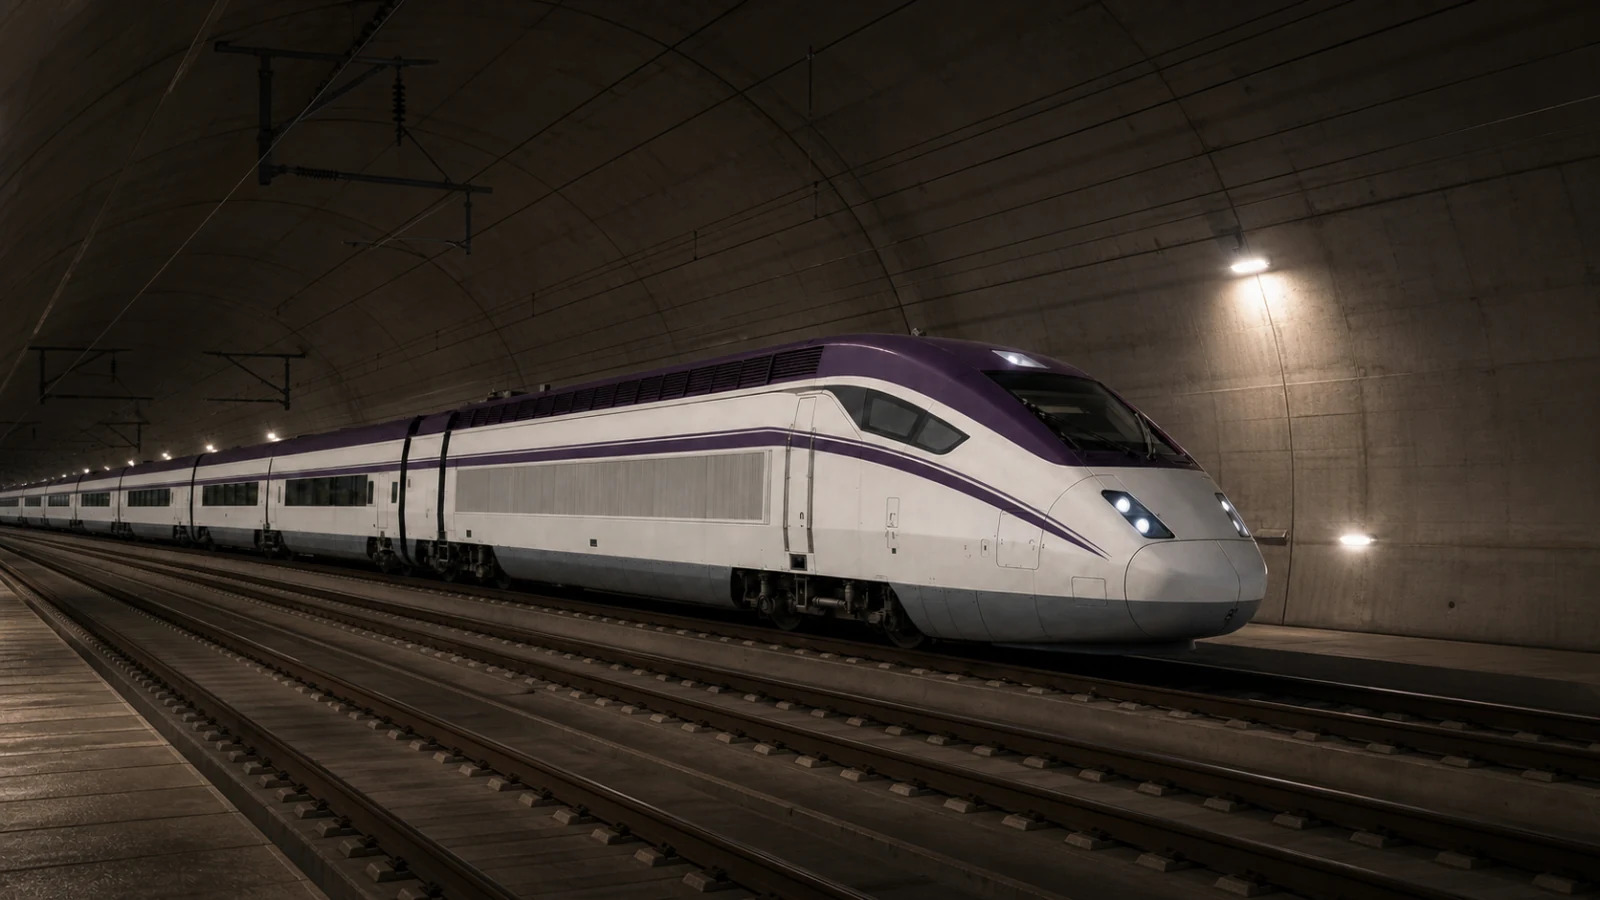
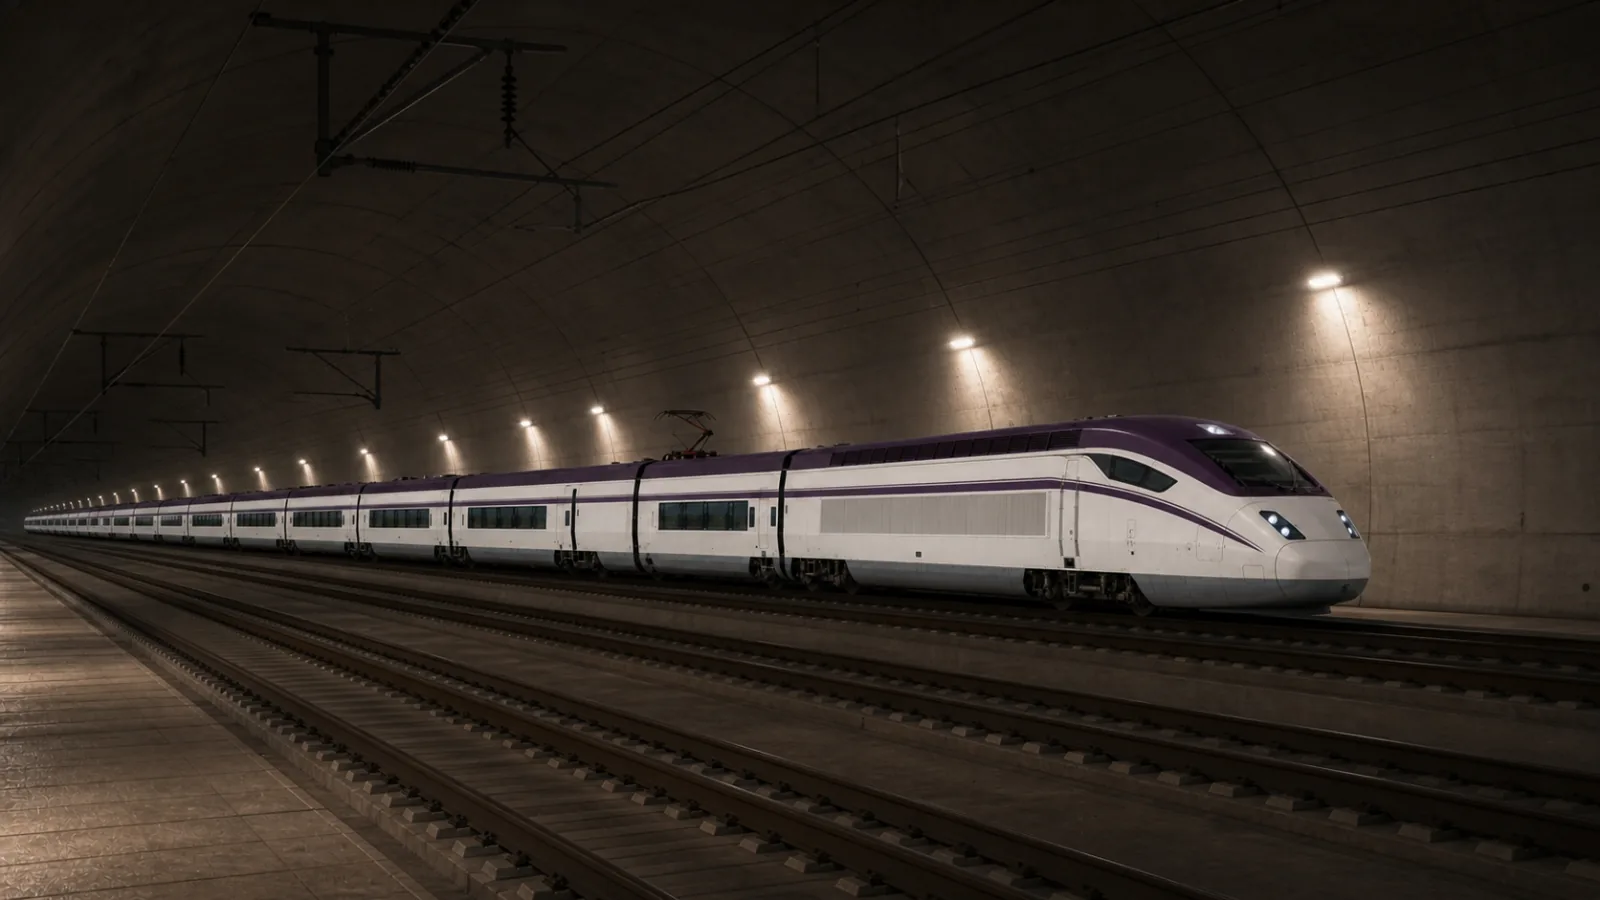
fix: meet SRT visual acceptance gate

diff --git a/styles.css b/styles.css
@@ -7801,17 +7801,17 @@ body[data-mode="ktx"] .stage-lights {
   opacity: 1;
 }
 
-/* 바깥 뷰는 승인안처럼 상단 65%를 월드, 하단 35%를 실제 운전 계기로 쓴다. */
+/* 바깥 뷰는 승인안처럼 상단 71%를 월드, 하단 29%를 실제 운전 계기로 쓴다. */
 .ktx-game[data-realistic="ready"][data-view="side"] .ktx-real-exterior-image {
   inset: 0 0 auto;
-  height: 65%;
+  height: 71%;
   object-position: center 58%;
 }
 
 .ktx-game[data-realistic="ready"][data-view="side"] .ktx-view-cab::before {
   position: absolute;
   inset: auto 0 0;
-  height: 35%;
+  height: 29%;
   z-index: 10;
   border-top: 3px solid rgba(187, 204, 220, .5);
   background:
@@ -7875,9 +7875,15 @@ body[data-mode="ktx"] .stage-lights {
 .ktx-game[data-realistic="ready"] .ktx-view-side .ktx-side-backdrop,
 .ktx-game[data-realistic="ready"] .ktx-view-side .ktx-side-far,
 .ktx-game[data-realistic="ready"] .ktx-view-side .ktx-side-mid,
+.ktx-game[data-realistic="ready"] .ktx-view-side .ktx-side-near,
 .ktx-game[data-realistic="ready"] .ktx-view-side .ktx-ground-rig,
 .ktx-game[data-realistic="ready"] .ktx-view-side .ktx-side-train {
   opacity: 0;
+}
+
+/* 실사 열차 위를 가로지르는 레거시 전경 모션은 장면 준비 즉시 제거한다. */
+.ktx-game[data-realistic="ready"] .ktx-view-side .ktx-side-near {
+  display: none;
 }
 
 /* 사진 속 장식 계기는 한 톤 눌러 두고, 그 위의 실제 수치·노치·문 상태만 읽힌다. */
@@ -7912,6 +7918,17 @@ body[data-mode="ktx"] .stage-lights {
   transform: scale(1.4);
   transform-origin: right bottom;
   filter: drop-shadow(0 8px 12px rgba(0, 0, 0, .44));
+}
+
+/* 운전실 사진의 기존 계기판을 살리고, 실제 조작 레버는 승인안처럼 왼쪽에 둔다. */
+.ktx-game[data-realistic="ready"][data-view="cab"] .ktx-lever {
+  right: auto;
+  left: 34px;
+  transform-origin: left bottom;
+}
+
+.ktx-game[data-realistic="ready"][data-view="cab"] .ktx-next-key {
+  left: 190px;
 }
 
 .ktx-game[data-realistic="ready"] .ktx-approach {
@@ -7966,7 +7983,7 @@ body[data-mode="ktx"] .stage-lights {
 }
 
 .ktx-game[data-realistic="ready"] .ktx-platform {
-  bottom: 35%;
+  bottom: 29%;
   height: 0;
   background: none;
 }
@@ -7974,11 +7991,11 @@ body[data-mode="ktx"] .stage-lights {
 .ktx-game[data-realistic="ready"] .ktx-stop-marker { top: -52px; }
 
 .ktx-game[data-realistic="ready"] .ktx-queue {
-  bottom: calc(35% + 2px);
+  bottom: calc(29% + 2px);
 }
 
 .ktx-game[data-realistic="ready"] .ktx-walker-host {
-  bottom: calc(35% + 2px);
+  bottom: calc(29% + 2px);
 }
 
 /* 고속 블러는 사진·열차·계기가 아니라 카메라 가까운 전신주에만 적용한다. */

diff --git a/mobile-games.css b/mobile-games.css
@@ -507,6 +507,16 @@
     bottom: 5px;
   }
 
+  body[data-mode="ktx"] .ktx-game[data-realistic="ready"][data-view="cab"] .ktx-lever {
+    right: 10px;
+    left: auto;
+    transform-origin: right bottom;
+  }
+
+  body[data-mode="ktx"] .ktx-game[data-realistic="ready"][data-view="cab"] .ktx-next-key {
+    left: 10px;
+  }
+
   body[data-mode="ktx"] .ktx-game[data-realistic="ready"][data-view="side"] .ktx-next-key {
     left: 68px;
     bottom: 10px;

diff --git a/docs/superpowers/specs/2026-08-03-srt-photorealistic-95-design.md b/docs/superpowers/specs/2026-08-03-srt-photorealistic-95-design.md
@@ -8,7 +8,7 @@
 다음 항목을 모두 충족했을 때 “참고 이미지와 95% 이상 적합”으로 판정한다.
 
 - SRT의 흰색 차체, 자주색 지붕과 허리선, 유선형 전두부, 창 띠, 대차, 연결부, 팬터그래프가 즉시 식별된다.
-- 외부 주행 화면은 `풍경 60~65% + 열차/선로 20~25% + 조작부 20~30%`의 콘셉트 보드 구도를 따른다.
+- 외부 주행 화면은 `열차·선로를 포함한 월드 70~72% + 조작부 28~30%`의 콘셉트 보드 구도를 따른다.
 - 운전실은 전면 창, 실제 선로 원근, 어두운 계기판, 중앙 속도계, 좌측 가감속 레버가 한 화면에서 읽힌다.
 - 평야·도심·교외·산악·해안·터널이 사진에 가까운 질감과 원근으로 구분된다.
 - 숫자 친구, 별, 홈, 소리, 안내 문구는 기존 1~6번 게임의 친근한 2D 표현을 유지한다.
@@ -39,8 +39,8 @@
 ### 외부 운전 화면
 
 - 상단 8%: 별, 속도, 제한속도, 홈·소리만 배치한다.
-- 중앙 62%: 사진형 배경과 SRT 측면/3분의 2 전면 열차를 배치한다.
-- 하단 30%: 실제 운전대에서 가져온 어두운 패널 위에 레버, 대형 원형 속도계, 경적과 문 상태를 둔다.
+- 상단 71% 월드: 사진형 배경과 SRT 측면/3분의 2 전면 열차를 배치한다.
+- 하단 29% 콘솔: 실제 운전대에서 가져온 어두운 패널 위에 레버, 대형 원형 속도계, 경적과 문 상태를 둔다.
 - 열차는 중앙 세로 영역의 최소 22% 높이를 차지하고, 노즈와 후미가 잘리지 않는다.
 - 배경은 하늘, 먼 도시/산, 선로변, 레일의 네 레이어로 분리한다. 속도가 높을수록 가까운 레이어만 더 빠르고 흐리게 움직인다.
 
@@ -74,9 +74,10 @@
 - `cab-{day,night,tunnel}.webp`: 동일한 계기판 구도를 유지한 운전실 베이스 3장
 
 초기안의 투명 열차·별도 전경 합성 대신 전체 프레임 외부 장면을 채택했다. 이렇게 해야 환경을
-바꿔도 열차 실루엣, 도색, 카메라 높이와 조명 방향이 흔들리지 않는다. 노선 구현에는 원안의
-교외 장면 대신 기존 주행 이벤트와 맞는 강변(`river`) 장면이 들어갔다. 선택·결과 화면과 이미지
-실패 상태는 별도 래스터 없이 기존 캐노니컬 SVG를 사용한다.
+바꿔도 열차 실루엣, 도색, 카메라 높이와 조명 방향이 흔들리지 않는다. `river` 이미지는 원안의
+교외 기준을 없애거나 대체하는 예외가 아니라, 낮은 구릉·수목대·아파트 원경과 강을 함께 담은
+**교외/도시간 강변 구간**의 시각 자산이다. 따라서 6종 판정에서도 `river`를 교외 환경 기준으로
+그대로 평가한다. 선택·결과 화면과 이미지 실패 상태는 별도 래스터 없이 기존 캐노니컬 SVG를 사용한다.
 
 자산 생성 규칙:
 
@@ -111,7 +112,7 @@
 1. 신규 자산 매니페스트가 모든 환경·열차 뷰를 제공한다.
 2. 상태별 올바른 자산이 선택된다.
 3. 이미지 실패 시 캐노니컬 SVG 폴백이 유지된다.
-4. 기존 390개 테스트가 모두 통과한다.
+4. 기존 408개 테스트가 모두 통과한다.
 5. 기존 “사진 텍스처 금지” 테스트는 7번 게임의 승인된 `assets/train-realistic/`만 허용하도록 좁힌다.
 
 ### 브라우저 검증

diff --git a/README.md b/README.md
@@ -5,7 +5,7 @@
 **숫자블록 친구들과 세고, 더하고, 길을 찾고, 지하철을 갈아타는 네다섯 살의 첫 웹 게임**
 
 [![놀이](https://img.shields.io/badge/놀이-7종-4DB6E2?style=flat-square)](#일곱-가지-놀이)
-[![테스트](https://img.shields.io/badge/테스트-375개-7BC67B?style=flat-square)](#테스트)
+[![테스트](https://img.shields.io/badge/테스트-408개-7BC67B?style=flat-square)](#테스트)
 [![의존성](https://img.shields.io/badge/의존성-0-F2A65A?style=flat-square)](#어떻게-만들어졌나)
 [![음성](https://img.shields.io/badge/한국어·영어_음성-410개-C79BE0?style=flat-square)](#소리와-음성)
 [![안내방송](https://img.shields.io/badge/실제_지하철_안내방송-62개_역-9BB7E0?style=flat-square)](#지하철-안내방송-정리)
@@ -33,7 +33,7 @@ cd numberblocks-minigame
 python3 -m http.server 8000     # 아무 정적 서버나 괜찮습니다
 open http://localhost:8000
 
-npm test                        # 테스트 375개
+npm test                        # 테스트 408개
 ```
 
 `file://` 로 직접 열면 ES 모듈이 막히니 꼭 서버로 띄워 주세요.
@@ -221,7 +221,7 @@ assets/
   audio/voice/{ko,en}/      안내 음성
 subway_sound/               실제 지하철 안내방송
 scripts/                    캐릭터 렌더·음성 생성·안내방송 정리
-tests/                      테스트 34개 파일
+tests/                      테스트 40개 파일
 docs/                       설계 문서와 작업 계획
 ```
 
@@ -245,7 +245,7 @@ npm test        # node --test tests/*.test.mjs
 
 브라우저 없이 도는 순수 노드 테스트입니다. DOM이 필요한 곳은 가짜 엘리먼트로 대신합니다.
 문제 생성과 채점, 안전길 이동과 신호등, 지하철 경로와 환승, 장면 렌더 계약, 홈 카드 계약,
-반응형 스타일, 음성 자산 존재 여부까지 **375개**가 확인합니다.
+반응형 스타일, 음성 자산 존재 여부까지 **408개**가 확인합니다.
 
 ---
 
